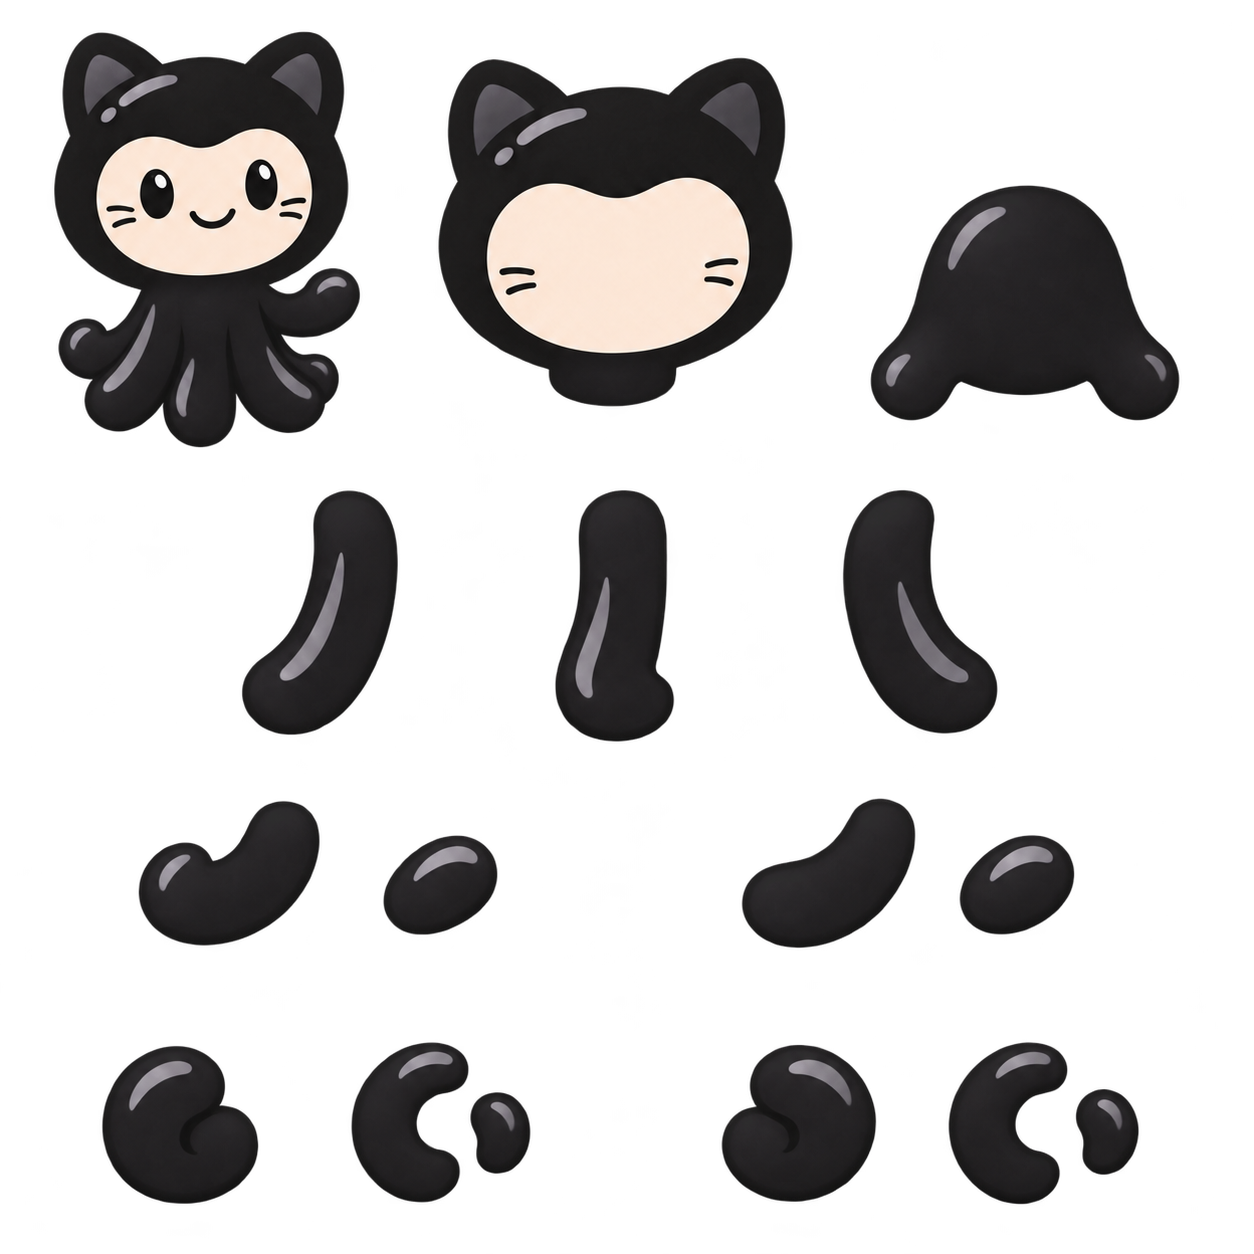
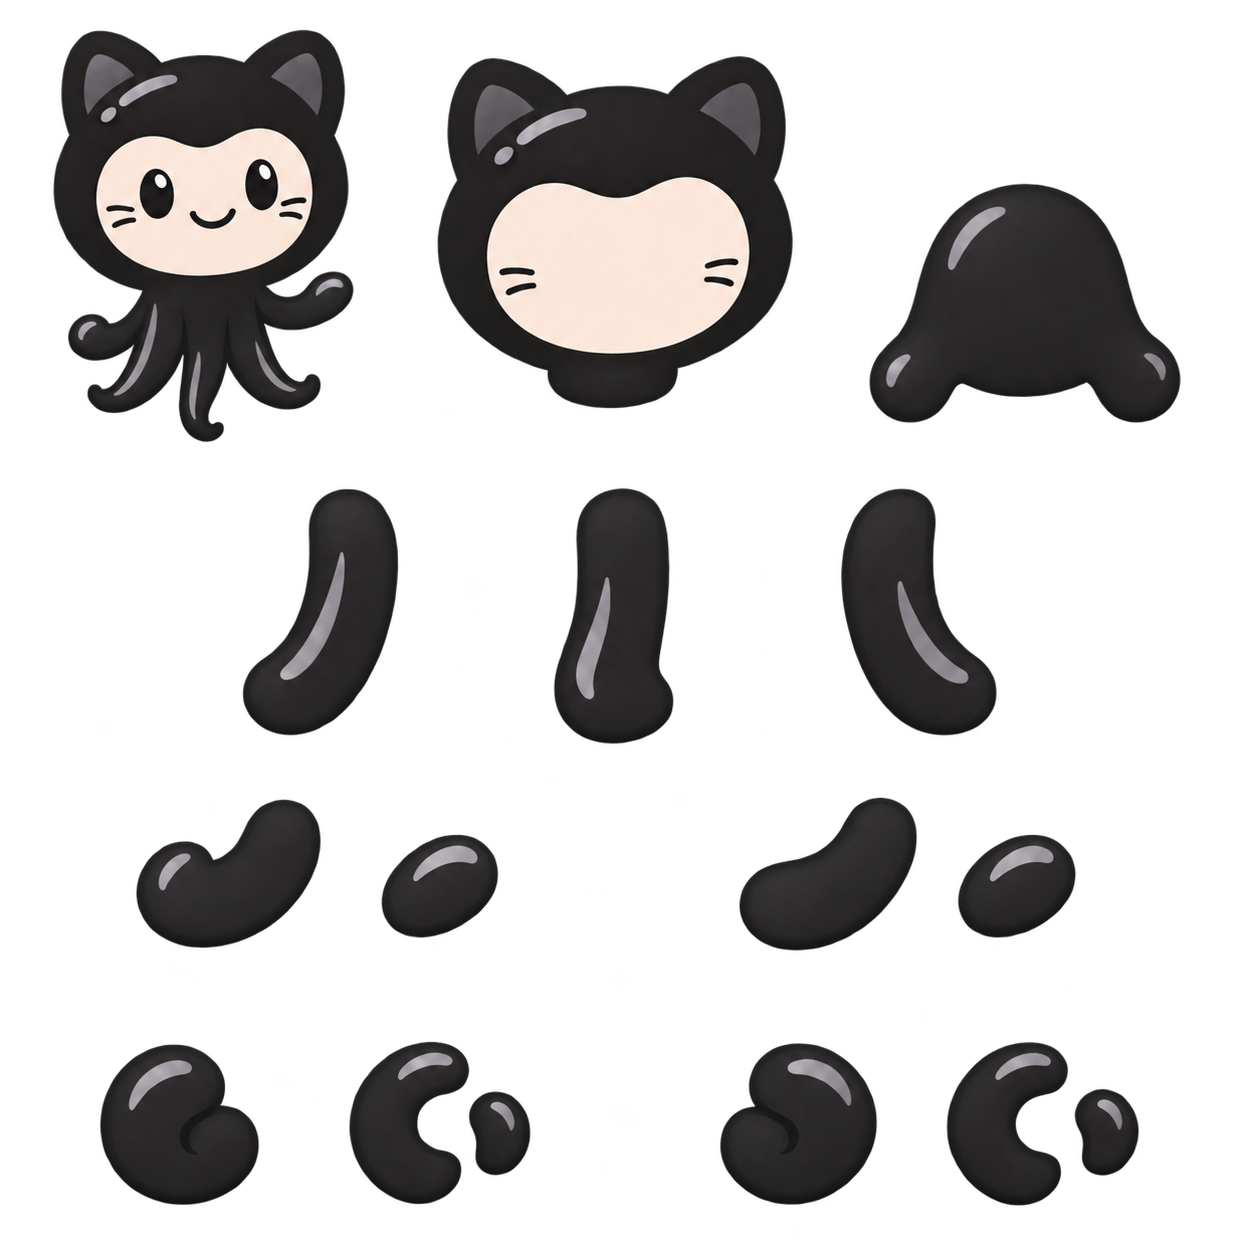
Revise Mona tentacle source sheet

diff --git a/docs/design/provenance.md b/docs/design/provenance.md
@@ -14,6 +14,12 @@ Sheet 1 review: initial generation `exec-b49f0ac8-58ee-4af4-abee-9dcc7458b5d4` f
 
 Sheet 2 review: initial `exec-3e10d024-65f5-48ed-bea0-b9b997be8a9e` and regeneration had oversized features; one edit reduced them. Cutter reports 24 expected islands, 7 specks and 15,042 faint alpha pixels, with clear corners and gaps. Head and features were regenerated rather than pixel-preserved; eye proportions are closer to idle but placement and exact match need assembly review. Blank head and content appear clean; joint and hidden-area checks are not applicable.
 
+| Source | Generation artifact identifier | Prompt intent | References (SHA-256) |
+|---|---|---|---|
[1 lines of base64/hex data omitted]
+
+Tentacle edit review: the assembled reference's tentacles became slimmer, but the separate front and arm parts remain visibly broad and little changed; preservation is not pixel-identical. Cutter finds 16 islands, 3 specks and 25,298 faint pixels; grip gaps remain below 40 px. Rounded joints and blank face remain visually present. The requested change to separate parts did not clearly succeed.
+
 ## v2 / #138 pilot
 
 Generated with the built-in `image_gen.imagegen` integration, requesting transparent backgrounds. The image integration does not expose its image-model identifier. These are unmodified source images, not packed runtime frames.
